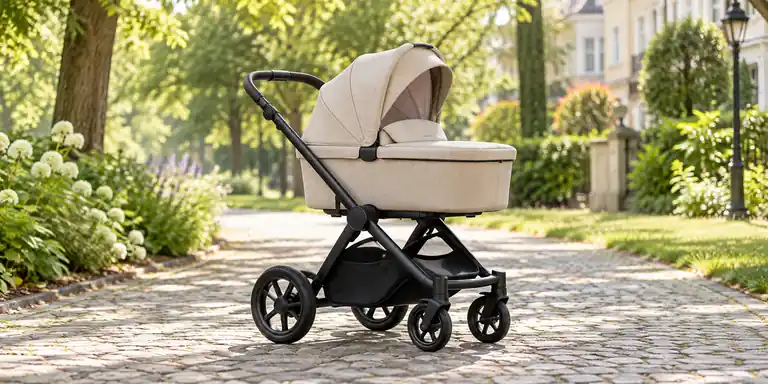
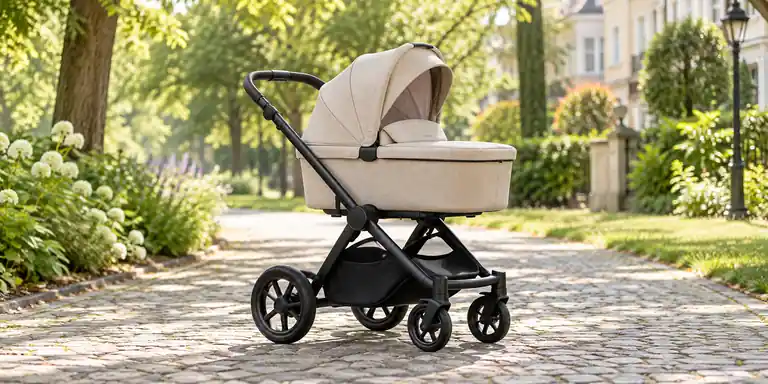
Compress stroller thumbnail to fit the integrated image budget

diff --git a/germany/ja/living/index.html b/germany/ja/living/index.html
@@ -280,7 +280,7 @@
             <!-- CONTENT:living-grid:start -->
         <article class="jc-article-card living-hub-card living-column-card card--has-media" data-living-card data-url="/germany/ja/living/stroller-buying-guide-germany/" data-title="ドイツのベビーカーの選び方｜5点セット・車との適合・購入チェック" data-summary="ドイツで出産準備をする家庭向けに、ベビーカー5点セットの役割、ベビーコットと乳児用カーシートの違い、ISOFIX・アダプターの適合、階段・石畳・車に合う選び方を図解します。" data-category="家族・子育て" data-tags="ベビーカー 出産準備 5点セット チャイルドシート ISOFIX デュッセルドルフ" data-search="ドイツのベビーカーの選び方｜5点セット・車との適合・購入チェック ドイツで出産準備をする家庭向けに、ベビーカー5点セットの役割、ベビーコットと乳児用カーシートの違い、ISOFIX・アダプターの適合、階段・石畳・車に合う選び方を図解します。 家族・子育て ベビーカー 出産準備 5点セット チャイルドシート ISOFIX デュッセルドルフ" data-published="2026-10-11" data-reviewed="2026-10-11" data-updated="2026-10-11">
           <button class="living-column-save" type="button" data-living-save aria-pressed="false" aria-label="保存: ドイツのベビーカーの選び方｜5点セット・車との適合・購入チェック">☆</button>
-          <div class="article-card-media card-media"><img src="/assets/images/living/stroller-germany-thumbnail.webp" alt="緑豊かなドイツの公園の小道に置かれたベージュのベビーカー" class="article-card-image" width="960" height="480" srcset="/assets/images/living/stroller-germany-thumbnail-480w.webp 480w, /assets/images/living/stroller-germany-thumbnail-768w.webp 768w, /assets/images/living/stroller-germany-thumbnail.webp 960w" sizes="(max-width: 760px) calc(100vw - 32px), (max-width: 1120px) 50vw, 320px" loading="lazy" decoding="async" data-fallback-src="/assets/img/placeholders/jconnect-default-card.webp" onerror="if(this.dataset.fallbackSrc&amp;&amp;this.getAttribute(&#039;src&#039;)!==this.dataset.fallbackSrc){this.onerror=null;this.src=this.dataset.fallbackSrc;this.classList.add(&#039;is-fallback-image&#039;);}"></div>
+          <div class="article-card-media card-media"><img src="/assets/images/living/stroller-germany-thumbnail.webp" alt="緑豊かなドイツの公園の小道に置かれたベージュのベビーカー" class="article-card-image" width="900" height="450" srcset="/assets/images/living/stroller-germany-thumbnail-480w.webp 480w, /assets/images/living/stroller-germany-thumbnail-768w.webp 768w, /assets/images/living/stroller-germany-thumbnail.webp 900w" sizes="(max-width: 760px) calc(100vw - 32px), (max-width: 1120px) 50vw, 320px" loading="lazy" decoding="async" data-fallback-src="/assets/img/placeholders/jconnect-default-card.webp" onerror="if(this.dataset.fallbackSrc&amp;&amp;this.getAttribute(&#039;src&#039;)!==this.dataset.fallbackSrc){this.onerror=null;this.src=this.dataset.fallbackSrc;this.classList.add(&#039;is-fallback-image&#039;);}"></div>
           <div class="jc-card-meta">
             <span class="jc-chip">家族・子育て</span>
             <span class="jc-chip">ベビーカー</span>

diff --git a/germany/ja/index.html b/germany/ja/index.html
@@ -389,7 +389,7 @@
         </a>
 
         <a class="portal3-card" href="/germany/ja/living/stroller-buying-guide-germany/">
-          <span class="portal3-card-img has-photo"><img src="/assets/images/living/stroller-germany-thumbnail.webp" alt="緑豊かなドイツの公園の小道に置かれたベージュのベビーカー" class="home-card-image" width="960" height="480" srcset="/assets/images/living/stroller-germany-thumbnail-480w.webp 480w, /assets/images/living/stroller-germany-thumbnail-768w.webp 768w, /assets/images/living/stroller-germany-thumbnail.webp 960w" sizes="(max-width: 760px) calc(100vw - 32px), (max-width: 1120px) 50vw, 320px" loading="lazy" decoding="async" data-fallback-src="/assets/img/placeholders/jconnect-default-card.webp" onerror="if(this.dataset.fallbackSrc&amp;&amp;this.getAttribute(&#039;src&#039;)!==this.dataset.fallbackSrc){this.onerror=null;this.src=this.dataset.fallbackSrc;this.classList.add(&#039;is-fallback-image&#039;);}"></span>
+          <span class="portal3-card-img has-photo"><img src="/assets/images/living/stroller-germany-thumbnail.webp" alt="緑豊かなドイツの公園の小道に置かれたベージュのベビーカー" class="home-card-image" width="900" height="450" srcset="/assets/images/living/stroller-germany-thumbnail-480w.webp 480w, /assets/images/living/stroller-germany-thumbnail-768w.webp 768w, /assets/images/living/stroller-germany-thumbnail.webp 900w" sizes="(max-width: 760px) calc(100vw - 32px), (max-width: 1120px) 50vw, 320px" loading="lazy" decoding="async" data-fallback-src="/assets/img/placeholders/jconnect-default-card.webp" onerror="if(this.dataset.fallbackSrc&amp;&amp;this.getAttribute(&#039;src&#039;)!==this.dataset.fallbackSrc){this.onerror=null;this.src=this.dataset.fallbackSrc;this.classList.add(&#039;is-fallback-image&#039;);}"></span>
           <strong>ドイツのベビーカーの選び方｜5点セット・車との適合・購入チェック</strong>
           <small>家族・子育て</small>
         </a>

diff --git a/germany/ja/living/stroller-buying-guide-germany/index.html b/germany/ja/living/stroller-buying-guide-germany/index.html
@@ -147,7 +147,7 @@
 
         <figure class="article-hero-media">
           <div class="article-hero-frame">
-            <img src="/assets/images/living/stroller-germany-thumbnail.webp" alt="緑豊かなドイツの公園の小道に置かれたベージュのベビーカー" class="article-hero-image" width="960" height="480" srcset="/assets/images/living/stroller-germany-thumbnail-480w.webp 480w, /assets/images/living/stroller-germany-thumbnail-768w.webp 768w, /assets/images/living/stroller-germany-thumbnail.webp 960w" sizes="(max-width: 760px) calc(100vw - 32px), min(960px, 100vw - 64px)" loading="eager" decoding="async" data-fallback-src="/assets/img/placeholders/jconnect-default-card.webp" onerror="if(this.dataset.fallbackSrc&amp;&amp;this.getAttribute(&#039;src&#039;)!==this.dataset.fallbackSrc){this.onerror=null;this.src=this.dataset.fallbackSrc;this.classList.add(&#039;is-fallback-image&#039;);}">
+            <img src="/assets/images/living/stroller-germany-thumbnail.webp" alt="緑豊かなドイツの公園の小道に置かれたベージュのベビーカー" class="article-hero-image" width="900" height="450" srcset="/assets/images/living/stroller-germany-thumbnail-480w.webp 480w, /assets/images/living/stroller-germany-thumbnail-768w.webp 768w, /assets/images/living/stroller-germany-thumbnail.webp 900w" sizes="(max-width: 760px) calc(100vw - 32px), min(960px, 100vw - 64px)" loading="eager" decoding="async" data-fallback-src="/assets/img/placeholders/jconnect-default-card.webp" onerror="if(this.dataset.fallbackSrc&amp;&amp;this.getAttribute(&#039;src&#039;)!==this.dataset.fallbackSrc){this.onerror=null;this.src=this.dataset.fallbackSrc;this.classList.add(&#039;is-fallback-image&#039;);}">
           </div>
           <figcaption class="article-image-caption">AI生成のイメージ画像。実在する製品や使用実績を示すものではありません。</figcaption>
         </figure>
